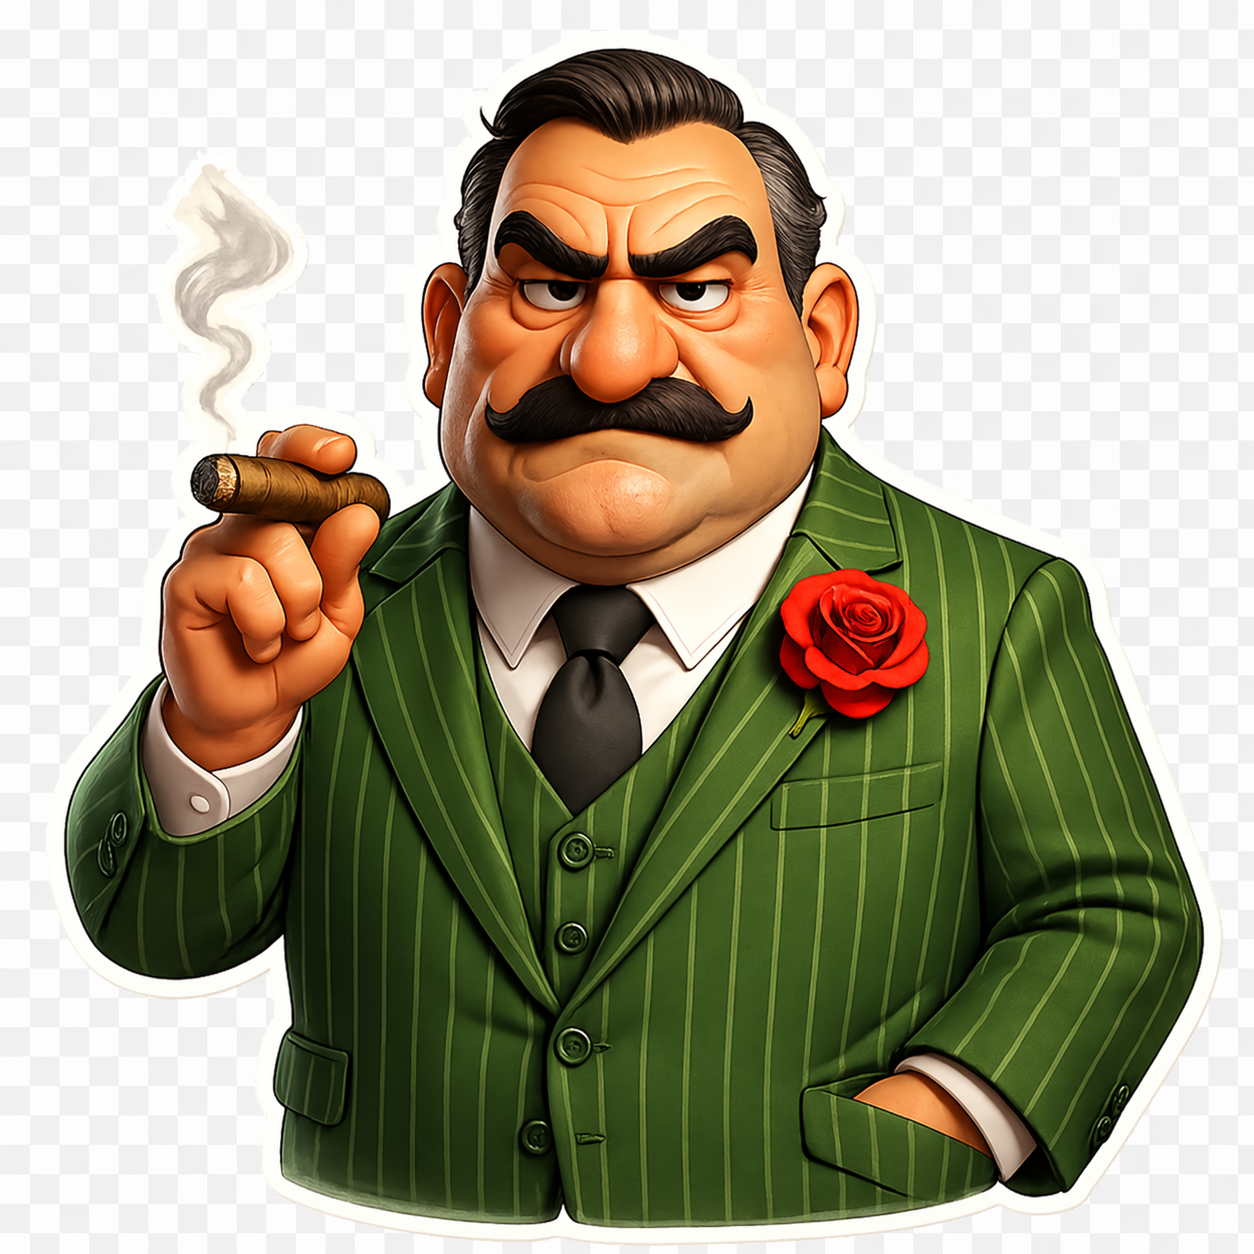
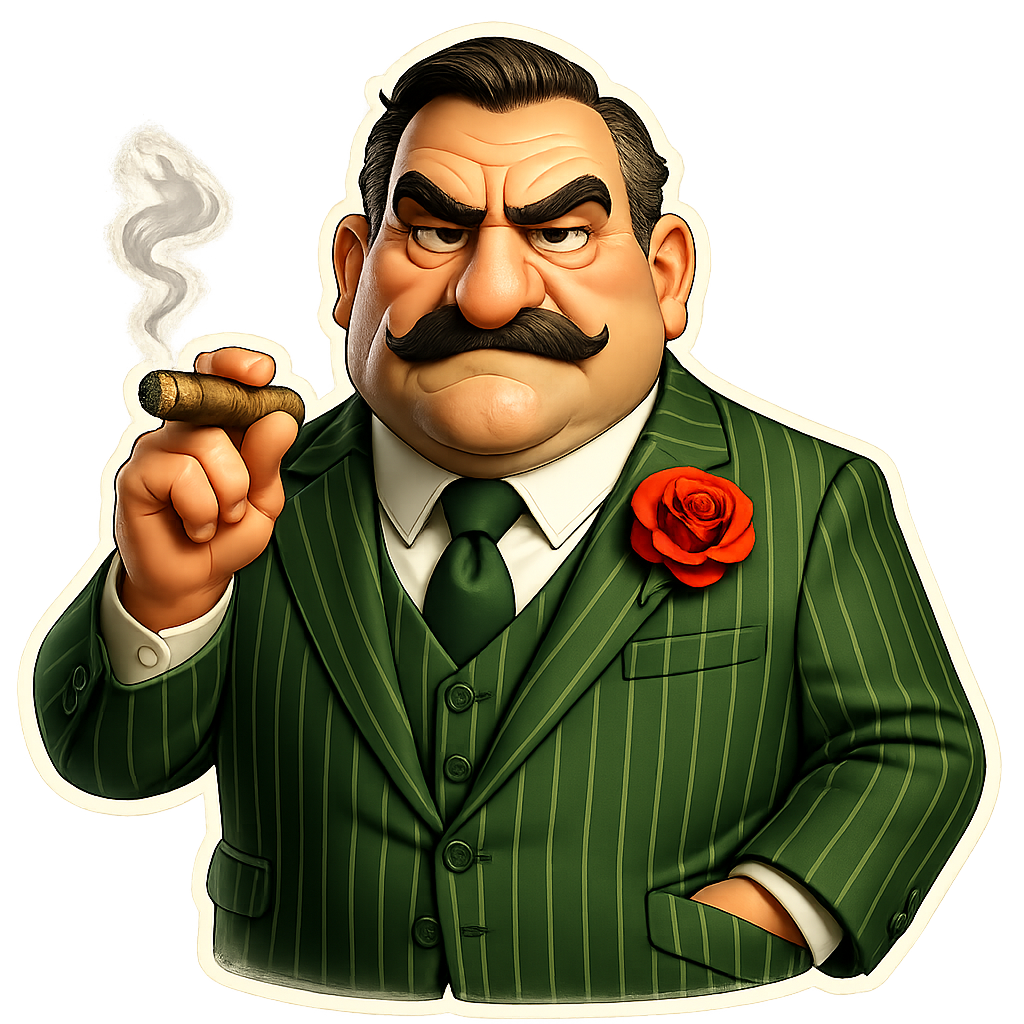
fix: game pauses for instructions, bullet-synced elimination, AI improvements, green godfather
- GameBoard: payment collection and bot AI now wait for the how-to-play modal
  to close (rulesOpen guard + added rulesOpen to both useEffect dep arrays);
  the first turn only starts once the player dismisses the instructions
- GameBoard: spawnBullet returns travel duration; gun elimination sprite and
  snapshotElimination are now scheduled at bulletDuration (not hardcoded 900ms)
  so the hit animation always lands exactly when the bullet arrives
  (applied to human turn, multiplayer sync replay, and bot path)
- botDecisionTree: scorePlacement now penalises CASH_REGISTER for lone
  non-godfather gangsters (score drops from 100 → 30); a business is always
  preferred when the player has only 1 gangster
- botDecisionTree: decideOrderCake now weights candidates by playerThreat
  (money + alive gangsters + monopoly bonus) — the CPU will target the leading
  player rather than blindly picking whoever occupies the most blast seats
- Updated green godfather sprite

diff --git a/src/app/features/game/botDecisionTree.ts b/src/app/features/game/botDecisionTree.ts
@@ -216,6 +216,20 @@ function decideKnife(state: GameState, botId: string): BotPlay | null {
   }
 }
 
+/** Threat score for a player: prioritises the leader (most money, most gangsters, monopoly). */
+function playerThreat(state: GameState, targetId: string): number {
+  const target = state.players.find((p) => p.id === targetId)
+  if (!target) return 0
+  const alive = target.gangsters.filter((g) => g.position !== null).length
+  const businessItems = ["BAR", "GAMBLING_HOUSE", "STRIP_CLUB"]
+  const ownedBusiness = target.gangsters
+    .filter((g) => g.position !== null)
+    .map((g) => state.board.find((p) => p.id === g.position)?.item)
+    .filter((item): item is string => !!item && businessItems.includes(item))
+  const hasMonopoly = ownedBusiness.some((item) => ownedBusiness.filter((i) => i === item).length >= 2)
+  return target.money + alive * 500 + (hasMonopoly ? 2000 : 0)
+}
+
 function decideOrderCake(state: GameState, botId: string): BotPlay | null {
   const player = state.players.find((p) => p.id === botId)
   if (!player) return null
@@ -235,13 +249,24 @@ function decideOrderCake(state: GameState, botId: string): BotPlay | null {
     const enemies = countEnemiesInBlast(state, posId, botId)
     if (enemies === 0) continue
 
-    // Tie-break: prefer a direct center hit (enemy sits exactly at the cake seat)
-    // so the CPU targets the enemy directly rather than placing adjacently.
+    // Weight by the threat level of enemies in the blast zone — prefer targeting
+    // the leader (most money + gangsters + monopoly) over weaker players.
     const centerOccupant = state.board.find((p) => p.id === posId)?.occupiedBy
     const isDirectHit = !!(centerOccupant && centerOccupant.playerId !== botId)
-    // enemies×2 so a 2-enemy side-hit outranks a 1-enemy direct hit, but equal
-    // enemy counts resolve to the center placement.
-    const score = enemies * 2 + (isDirectHit ? 1 : 0)
+
+    // Collect all enemy player IDs in blast range (center + neighbors)
+    const blastPos = state.board.find((p) => p.id === posId)
+    const blastSeatIds = [posId, blastPos?.leftId, blastPos?.rightId].filter((id): id is number => id != null)
+    const enemyIdsInBlast = new Set<string>()
+    for (const seatId of blastSeatIds) {
+      const occ = state.board.find((p) => p.id === seatId)?.occupiedBy
+      if (occ && occ.playerId !== botId) enemyIdsInBlast.add(occ.playerId)
+    }
+    const maxThreat = Math.max(0, ...[...enemyIdsInBlast].map((id) => playerThreat(state, id)))
+
+    // enemies×2 ensures targeting two weak players can beat one strong one when
+    // the threat difference is small; threat breaks ties among equal enemy counts.
+    const score = enemies * 2 + (isDirectHit ? 1 : 0) + maxThreat / 1000
 
     if (score > bestScore) {
       bestScore = score
@@ -446,11 +471,15 @@ function scorePlacement(
   gangsterType: string,
   seat: Position,
   ownedTypes: Set<string>,
+  aliveCount: number,
 ): number {
   let score = 0
 
   if (seat.item === "CASH_REGISTER") {
-    score += 100
+    // Cash register only benefits a Godfather or a team with multiple gangsters.
+    // A lone non-godfather at a register earns nothing — prefer a direct business.
+    const registerValue = gangsterType === "GODFATHER" ? 100 : (aliveCount >= 2 ? 80 : 30)
+    score += registerValue
   } else if (seat.item && ownedTypes.has(seat.item)) {
     score += 85
   } else if (seat.item && SEATING_BUSINESS_ITEMS.includes(seat.item)) {
@@ -549,7 +578,8 @@ export function decideBotSeating(
       const seat = state.board.find((p) => p.id === seatId)
       if (!seat) continue
 
-      const score = scorePlacement(gangster.type, seat, ownedTypes)
+      const aliveCount = player.gangsters.filter((g) => g.position !== null).length + gangsterIdsToPlace.length
+      const score = scorePlacement(gangster.type, seat, ownedTypes, aliveCount)
       if (score > bestScore) {
         bestScore = score
         bestGangsterId = gangsterId

diff --git a/src/app/components/game/GameBoard.tsx b/src/app/components/game/GameBoard.tsx
@@ -292,11 +292,12 @@ export default function GameBoard({ playerCount, seatingType = "automatic", game
     }, durationMs)
   }, [])
 
-  /** Spawn a bullet that travels from `fromSeatId` to `toSeatId` at ~800 px/s. */
-  const spawnBullet = useCallback((fromSeatId: number, toSeatId: number) => {
+  /** Spawn a bullet that travels from `fromSeatId` to `toSeatId` at ~800 px/s.
+   *  Returns the travel duration in ms so callers can sync follow-up effects. */
+  const spawnBullet = useCallback((fromSeatId: number, toSeatId: number): number => {
     const from = positionMap[fromSeatId]
     const to   = positionMap[toSeatId]
-    if (!from || !to) return
+    if (!from || !to) return 900
     const boardEl = boardContainerRef.current
     const boardW  = boardEl?.offsetWidth  ?? 800
     const boardH  = boardEl?.offsetHeight ?? 400
@@ -308,6 +309,7 @@ export default function GameBoard({ playerCount, seatingType = "automatic", game
     const id = `b-${Date.now()}-${Math.random().toString(36).slice(2)}`
     setBullets((prev) => [...prev, { id, fromX: from.x, fromY: from.y, toX: to.x, toY: to.y, angle, duration }])
     setTimeout(() => setBullets((prev) => prev.filter((b) => b.id !== id)), duration + 120)
+    return duration
   }, [])
 
   /** Snapshot the character at `seatId` (from `fromState`) and render them as a fading gray ghost for `durationMs`. */
@@ -418,10 +420,12 @@ export default function GameBoard({ playerCount, seatingType = "automatic", game
               const flipX   = toPos && fromPos ? toPos.x < fromPos.x : false
               const syncAnimDur = act.seatAnim?.animClass === "seat-anim-danger" ? 2500 : 900
               triggerPoseOverride(shooterSeat, 2, flipX, syncAnimDur)
-              if (targetSeat != null) spawnBullet(shooterSeat, targetSeat)
-              if (targetSeat != null && gameState.board.find((p) => p.id === targetSeat)?.occupiedBy != null) {
-                snapshotElimination(targetSeat, gameState, 900 + 1800)
-                setTimeout(() => triggerSeatSprite([targetSeat], ELIMINATION_SPRITE, 1800), 900)
+              if (targetSeat != null) {
+                const bulletMs = spawnBullet(shooterSeat, targetSeat)
+                if (gameState.board.find((p) => p.id === targetSeat)?.occupiedBy != null) {
+                  snapshotElimination(targetSeat, gameState, bulletMs + 1800)
+                  setTimeout(() => triggerSeatSprite([targetSeat], ELIMINATION_SPRITE, 1800), bulletMs)
+                }
               }
             } else if (act.cardType === "KNIFE") {
               const [shooterSeat, targetSeat] = seatIds
@@ -554,6 +558,8 @@ export default function GameBoard({ playerCount, seatingType = "automatic", game
   }, [currentPlayerIndex, gameState]) // eslint-disable-line react-hooks/exhaustive-deps
 
   useEffect(() => {
+    // Don't start processing turns while the how-to-play screen is still open
+    if (rulesOpen) return
     if (gameState.currentPhase === "SELECT_CARD" && !gameOver) {
       const currentPlayer = gameState.players[currentPlayerIndex]
       // Prevent duplicate payment when phase bounces back to SELECT_CARD (e.g. cancel action)
@@ -590,7 +596,7 @@ export default function GameBoard({ playerCount, seatingType = "automatic", game
         suppressPaymentLogRef.current = false
       }
     }
-  }, [currentPlayerIndex, gameState.currentPhase]) // eslint-disable-line react-hooks/exhaustive-deps
+  }, [currentPlayerIndex, gameState.currentPhase, rulesOpen]) // eslint-disable-line react-hooks/exhaustive-deps
 
   useEffect(() => {
     if (["SEATING_SELECT_GANGSTER", "SEATING_SELECT_SEAT", "SEATING_CONFIRM"].includes(gameState.currentPhase)) return
@@ -718,6 +724,7 @@ export default function GameBoard({ playerCount, seatingType = "automatic", game
 
   useEffect(() => {
     if ((!shouldRunBots || gameMode === "hotseat") || gameOver) return
+    if (rulesOpen) return  // wait for instructions to close before bots start
     const currentPlayer = gameState.players[currentPlayerIndex]
     if (!botPlayerIds.includes(currentPlayer.id)) return
     if (gameState.currentPhase !== "SELECT_CARD") return
@@ -762,12 +769,12 @@ export default function GameBoard({ playerCount, seatingType = "automatic", game
                 const toPos   = targetSeat != null ? positionMap[targetSeat] : null
                 const flipX   = toPos && fromPos ? toPos.x < fromPos.x : false
                 triggerPoseOverride(shooterSeat, 2, flipX, DANGER_ANIM_MS)
-                if (targetSeat != null) spawnBullet(shooterSeat, targetSeat)
                 if (targetSeat != null) {
+                  const bulletMs = spawnBullet(shooterSeat, targetSeat)
                   const preState = i === 0 ? latestState : (stateAfterFirstAction ?? latestState)
                   if (preState.board.find((p) => p.id === targetSeat)?.occupiedBy != null) {
-                    snapshotElimination(targetSeat, preState, 900 + 1800)
-                    setTimeout(() => triggerSeatSprite([targetSeat], ELIMINATION_SPRITE, 1800), 900)
+                    snapshotElimination(targetSeat, preState, bulletMs + 1800)
+                    setTimeout(() => triggerSeatSprite([targetSeat], ELIMINATION_SPRITE, 1800), bulletMs)
                   }
                 }
               } else if (cardType === "KNIFE") {
@@ -880,7 +887,7 @@ export default function GameBoard({ playerCount, seatingType = "automatic", game
     }, 4000)
 
     return () => { clearTimeout(timer); setActiveBotPlayerId(null) }
-  }, [currentPlayerIndex, gameState.currentPhase, gameMode, gameOver]) // eslint-disable-line react-hooks/exhaustive-deps
+  }, [currentPlayerIndex, gameState.currentPhase, gameMode, gameOver, rulesOpen]) // eslint-disable-line react-hooks/exhaustive-deps
 
   useEffect(() => {
     // Run CPU auto-seating in solo AND multiplayer (on the host who runs bots)
@@ -1308,10 +1315,12 @@ export default function GameBoard({ playerCount, seatingType = "automatic", game
         const toPos   = targetSeat != null ? positionMap[targetSeat] : null
         const flipX   = toPos && fromPos ? toPos.x < fromPos.x : false
         triggerPoseOverride(shooterSeat, 2, flipX, feedbackDur)
-        if (targetSeat != null) spawnBullet(shooterSeat, targetSeat)
-        if (targetSeat != null && gameState.board.find((p) => p.id === targetSeat)?.occupiedBy != null) {
-          snapshotElimination(targetSeat, gameState, 900 + 1800)
-          setTimeout(() => triggerSeatSprite([targetSeat], ELIMINATION_SPRITE, 1800), 900)
+        if (targetSeat != null) {
+          const bulletMs = spawnBullet(shooterSeat, targetSeat)
+          if (gameState.board.find((p) => p.id === targetSeat)?.occupiedBy != null) {
+            snapshotElimination(targetSeat, gameState, bulletMs + 1800)
+            setTimeout(() => triggerSeatSprite([targetSeat], ELIMINATION_SPRITE, 1800), bulletMs)
+          }
         }
       } else if (card.type === "KNIFE") {
         const [shooterSeat, targetSeat] = feedback.seatIds